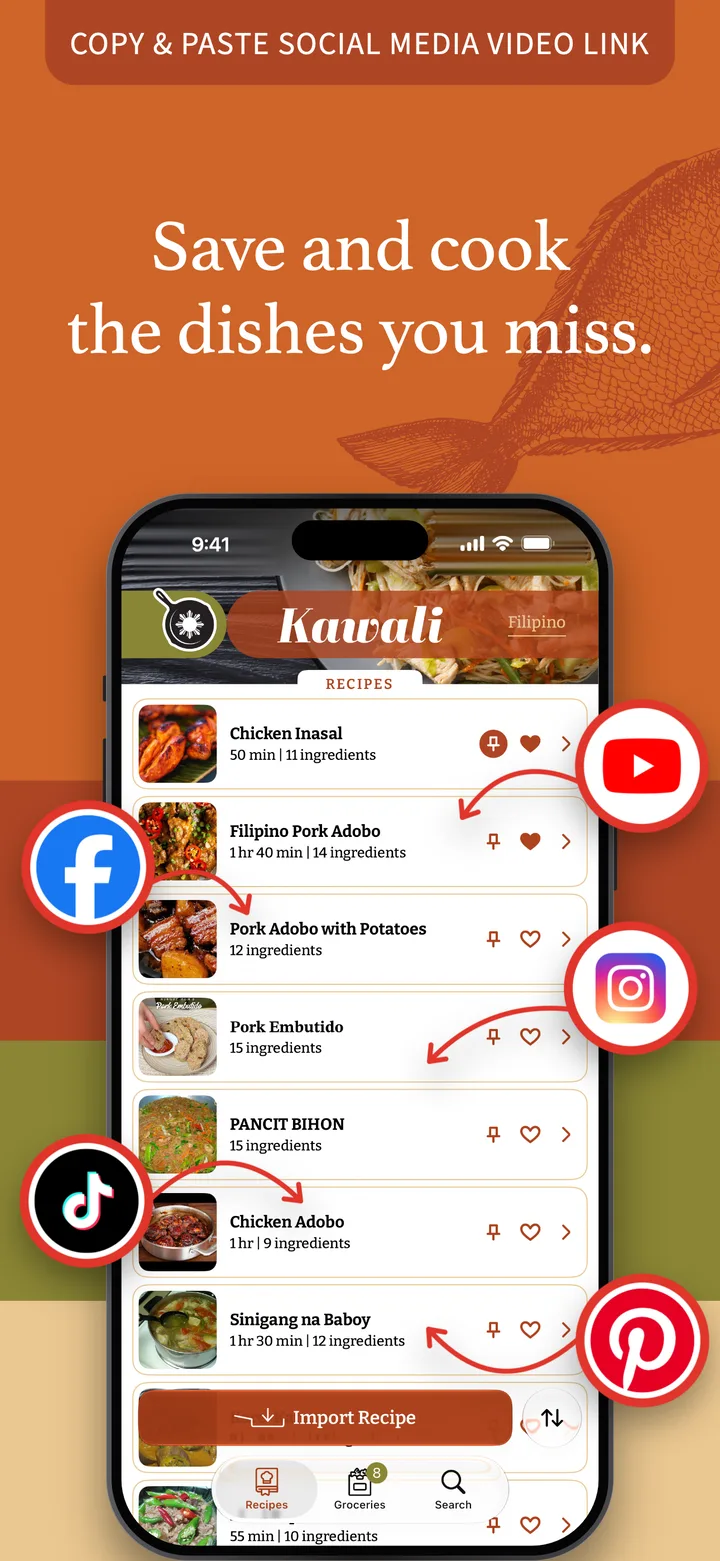
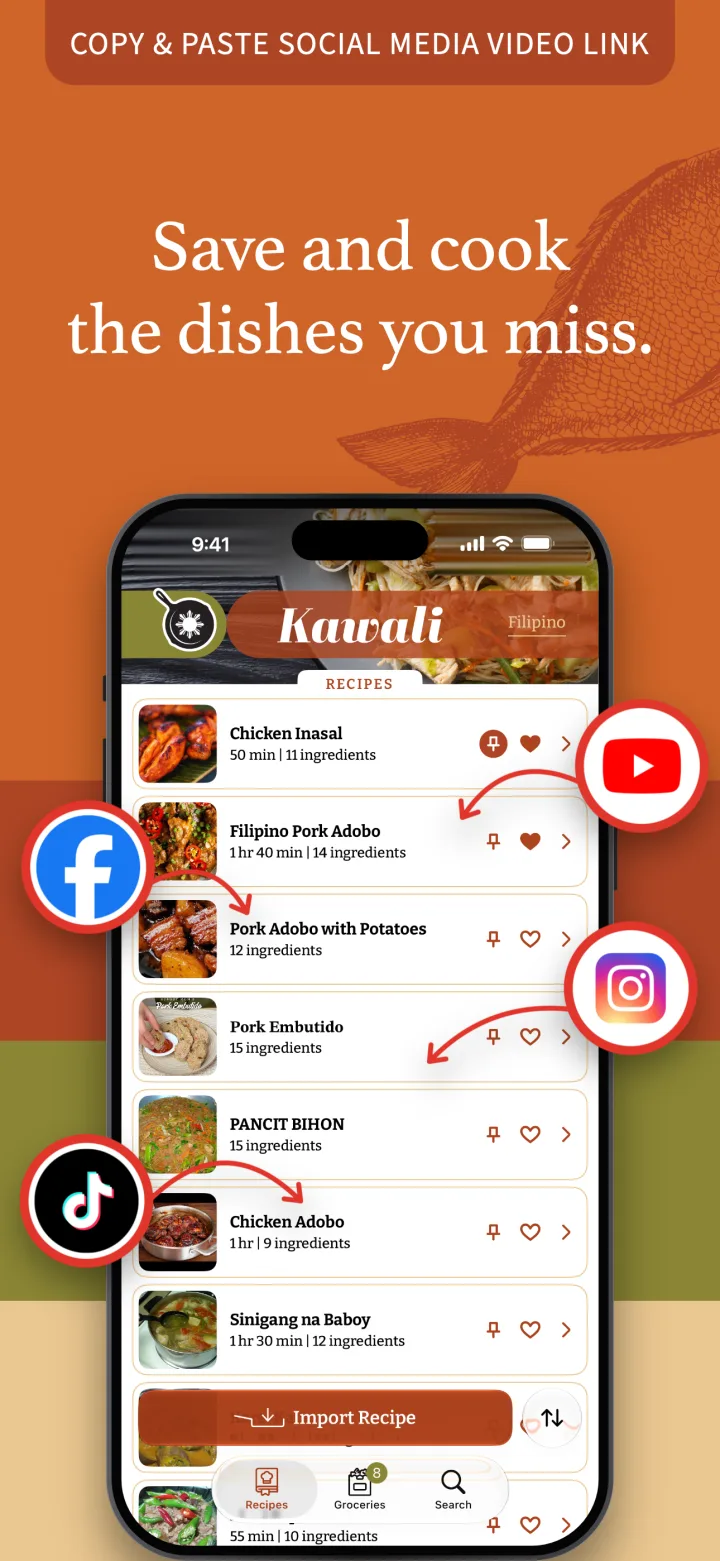
Take Pinterest off the site
Kawali no longer imports from Pinterest, so the site stops naming it:
the description and structured data, the hero, how-it-works, the Works
with marks, the support page's list of links (and "boards"), the privacy
policy's sources, and the trademark lines. Screenshot 2 is the new App
Store image without the Pinterest badge (720 wide, cwebp -q 82).

Also carries the privacy policy's Feast wording that was waiting: 5
reveals a month without Feast, "lots more" with it, rather than 100.

Claude-Session: https://claude.ai/code/session_01Wi9NbUzXHXaHLiCosfj7Ww

Changed region(s): [[0.6111, 0.7995, 1.0, 0.9225], [0.5806, 0.8302, 0.6111, 0.861]]

diff --git a/index.html b/index.html
@@ -4,7 +4,7 @@
   <meta charset="utf-8">
   <meta name="viewport" content="width=device-width, initial-scale=1, viewport-fit=cover">
   <title>Kawali – Save Filipino recipes from cooking videos</title>
-  <meta name="description" content="Kawali turns Filipino cooking videos from YouTube, TikTok, Instagram, Facebook and Pinterest into clean recipes you can edit, and a grocery list sorted by aisle. Patis stays patis, and an amount the video never gave is never guessed.">
+  <meta name="description" content="Kawali turns Filipino cooking videos from YouTube, TikTok, Instagram and Facebook into clean recipes you can edit, and a grocery list sorted by aisle. Patis stays patis, and an amount the video never gave is never guessed.">
   <link rel="canonical" href="https://kawali.app/">
   <meta name="theme-color" content="#ffffff">
 
@@ -37,7 +37,7 @@
     "name": "Kawali",
     "operatingSystem": "iOS 26.2 or later",
     "applicationCategory": "LifestyleApplication",
-    "description": "Kawali turns Filipino cooking videos from YouTube, TikTok, Instagram, Facebook and Pinterest into structured, editable recipes and a grocery checklist, keeping Filipino ingredient names and never inventing amounts the source did not give.",
+    "description": "Kawali turns Filipino cooking videos from YouTube, TikTok, Instagram and Facebook into structured, editable recipes and a grocery checklist, keeping Filipino ingredient names and never inventing amounts the source did not give.",
     "url": "https://kawali.app/",
     "image": "https://kawali.app/assets/img/icon-512.png",
     "author": { "@type": "Organization", "name": "CaLa Studios LLC", "email": "support@calastudios.app" }
@@ -79,7 +79,7 @@
         <div class="hero-copy">
           <span class="eyebrow">Made for everyone who misses Mom's Filipino home cooking</span>
           <h1>Save and cook the dishes <span class="accent">you miss.</span></h1>
-          <p class="hero-sub">Paste a cooking video from YouTube, TikTok, Instagram, Facebook or Pinterest. Kawali writes it down as a clean recipe you can check and edit, then puts the ingredients on your grocery list.</p>
+          <p class="hero-sub">Paste a cooking video from YouTube, TikTok, Instagram or Facebook. Kawali writes it down as a clean recipe you can check and edit, then puts the ingredients on your grocery list.</p>
           <div class="hero-cta">
             <span class="store-soon" data-store>
               <svg viewBox="0 0 24 24" fill="none" stroke="currentColor" stroke-width="2" stroke-linecap="round" stroke-linejoin="round" aria-hidden="true"><rect x="6" y="2" width="12" height="20" rx="3"/><path d="M10.5 5h3"/></svg>
@@ -119,7 +119,7 @@
               <span class="step-icon"><svg aria-hidden="true" viewBox="0 0 150.49 57.16"><path fill="none" stroke="currentColor" stroke-linecap="round" stroke-linejoin="round" stroke-width="7" d="M148.24,33.3v16.4c0,2.88-2.33,5.21-5.21,5.21H57.9c-2.88,0-5.21-2.33-5.21-5.21v-16.4L2.25,23.44"/><line fill="none" stroke="currentColor" stroke-linecap="round" stroke-linejoin="round" stroke-width="7" x1="100.91" y1="2.25" x2="100.91" y2="36.85"/><polygon fill="currentColor" points="82.5 21.94 85.8 18.87 100.9 35.12 116.01 18.87 119.31 21.94 100.9 41.73 82.5 21.94"/></svg></span>
             </div>
             <h3>Paste</h3>
-            <p>Copy the link to a Filipino cooking video and paste it into Kawali. Or skip the copying and share it to Kawali straight from YouTube, TikTok, Instagram, Facebook, Pinterest or Safari.</p>
+            <p>Copy the link to a Filipino cooking video and paste it into Kawali. Or skip the copying and share it to Kawali straight from YouTube, TikTok, Instagram, Facebook or Safari.</p>
           </li>
           <li class="step reveal">
             <div class="step-head">
@@ -154,9 +154,8 @@
             <li><svg style="color:#000000" fill="currentColor" aria-hidden="true" viewBox="0 0 24 24"><path d="M12.525.02c1.31-.02 2.61-.01 3.91-.02.08 1.53.63 3.09 1.75 4.17 1.12 1.11 2.7 1.62 4.24 1.79v4.03c-1.44-.05-2.89-.35-4.2-.97-.57-.26-1.1-.59-1.62-.93-.01 2.92.01 5.84-.02 8.75-.08 1.4-.54 2.79-1.35 3.94-1.31 1.92-3.58 3.17-5.91 3.21-1.43.08-2.86-.31-4.08-1.03-2.02-1.19-3.44-3.37-3.65-5.71-.02-.5-.03-1-.01-1.49.18-1.9 1.12-3.72 2.58-4.96 1.66-1.44 3.98-2.13 6.15-1.72.02 1.48-.04 2.96-.04 4.44-.99-.32-2.15-.23-3.02.37-.63.41-1.11 1.04-1.36 1.75-.21.51-.15 1.07-.14 1.61.24 1.64 1.82 3.02 3.5 2.87 1.12-.01 2.19-.66 2.77-1.61.19-.33.4-.67.41-1.06.1-1.79.06-3.57.07-5.36.01-4.03-.01-8.05.02-12.07z"/></svg>TikTok</li>
             <li><svg aria-hidden="true" viewBox="0 0 24 24"><defs><linearGradient id="ig-grad" x1="0" y1="1" x2="1" y2="0"><stop offset="0" stop-color="#feda75"/><stop offset=".25" stop-color="#fa7e1e"/><stop offset=".5" stop-color="#d62976"/><stop offset=".75" stop-color="#962fbf"/><stop offset="1" stop-color="#4f5bd5"/></linearGradient></defs><path fill="url(#ig-grad)" d="M7.0301.084c-1.2768.0602-2.1487.264-2.911.5634-.7888.3075-1.4575.72-2.1228 1.3877-.6652.6677-1.075 1.3368-1.3802 2.127-.2954.7638-.4956 1.6365-.552 2.914-.0564 1.2775-.0689 1.6882-.0626 4.947.0062 3.2586.0206 3.6671.0825 4.9473.061 1.2765.264 2.1482.5635 2.9107.308.7889.72 1.4573 1.388 2.1228.6679.6655 1.3365 1.0743 2.1285 1.38.7632.295 1.6361.4961 2.9134.552 1.2773.056 1.6884.069 4.9462.0627 3.2578-.0062 3.668-.0207 4.9478-.0814 1.28-.0607 2.147-.2652 2.9098-.5633.7889-.3086 1.4578-.72 2.1228-1.3881.665-.6682 1.0745-1.3378 1.3795-2.1284.2957-.7632.4966-1.636.552-2.9124.056-1.2809.0692-1.6898.063-4.948-.0063-3.2583-.021-3.6668-.0817-4.9465-.0607-1.2797-.264-2.1487-.5633-2.9117-.3084-.7889-.72-1.4568-1.3876-2.1228C21.2982 1.33 20.628.9208 19.8378.6165 19.074.321 18.2017.1197 16.9244.0645 15.6471.0093 15.236-.005 11.977.0014 8.718.0076 8.31.0215 7.0301.0839m.1402 21.6932c-1.17-.0509-1.8053-.2453-2.2287-.408-.5606-.216-.96-.4771-1.3819-.895-.422-.4178-.6811-.8186-.9-1.378-.1644-.4234-.3624-1.058-.4171-2.228-.0595-1.2645-.072-1.6442-.079-4.848-.007-3.2037.0053-3.583.0607-4.848.05-1.169.2456-1.805.408-2.2282.216-.5613.4762-.96.895-1.3816.4188-.4217.8184-.6814 1.3783-.9003.423-.1651 1.0575-.3614 2.227-.4171 1.2655-.06 1.6447-.072 4.848-.079 3.2033-.007 3.5835.005 4.8495.0608 1.169.0508 1.8053.2445 2.228.408.5608.216.96.4754 1.3816.895.4217.4194.6816.8176.9005 1.3787.1653.4217.3617 1.056.4169 2.2263.0602 1.2655.0739 1.645.0796 4.848.0058 3.203-.0055 3.5834-.061 4.848-.051 1.17-.245 1.8055-.408 2.2294-.216.5604-.4763.96-.8954 1.3814-.419.4215-.8181.6811-1.3783.9-.4224.1649-1.0577.3617-2.2262.4174-1.2656.0595-1.6448.072-4.8493.079-3.2045.007-3.5825-.006-4.848-.0608M16.953 5.5864A1.44 1.44 0 1 0 18.39 4.144a1.44 1.44 0 0 0-1.437 1.4424M5.8385 12.012c.0067 3.4032 2.7706 6.1557 6.173 6.1493 3.4026-.0065 6.157-2.7701 6.1506-6.1733-.0065-3.4032-2.771-6.1565-6.174-6.1498-3.403.0067-6.156 2.771-6.1496 6.1738M8 12.0077a4 4 0 1 1 4.008 3.9921A3.9996 3.9996 0 0 1 8 12.0077"/></svg>Instagram</li>
             <li><svg style="color:#0866ff" fill="currentColor" aria-hidden="true" viewBox="0 0 24 24"><path d="M9.101 23.691v-7.98H6.627v-3.667h2.474v-1.58c0-4.085 1.848-5.978 5.858-5.978.401 0 .955.042 1.468.103a8.68 8.68 0 0 1 1.141.195v3.325a8.623 8.623 0 0 0-.653-.036 26.805 26.805 0 0 0-.733-.009c-.707 0-1.259.096-1.675.309a1.686 1.686 0 0 0-.679.622c-.258.42-.374.995-.374 1.752v1.297h3.919l-.386 2.103-.287 1.564h-3.246v8.245C19.396 23.238 24 18.179 24 12.044c0-6.627-5.373-12-12-12s-12 5.373-12 12c0 5.628 3.874 10.35 9.101 11.647Z"/></svg>Facebook</li>
-            <li><svg style="color:#e60023" fill="currentColor" aria-hidden="true" viewBox="0 0 24 24"><path d="M12.017 0C5.396 0 .029 5.367.029 11.987c0 5.079 3.158 9.417 7.618 11.162-.105-.949-.199-2.403.041-3.439.219-.937 1.406-5.957 1.406-5.957s-.359-.72-.359-1.781c0-1.663.967-2.911 2.168-2.911 1.024 0 1.518.769 1.518 1.688 0 1.029-.653 2.567-.992 3.992-.285 1.193.6 2.165 1.775 2.165 2.128 0 3.768-2.245 3.768-5.487 0-2.861-2.063-4.869-5.008-4.869-3.41 0-5.409 2.562-5.409 5.199 0 1.033.394 2.143.889 2.741.099.12.112.225.085.345-.09.375-.293 1.199-.334 1.363-.053.225-.172.271-.401.165-1.495-.69-2.433-2.878-2.433-4.646 0-3.776 2.748-7.252 7.92-7.252 4.158 0 7.392 2.967 7.392 6.923 0 4.135-2.607 7.462-6.233 7.462-1.214 0-2.354-.629-2.758-1.379l-.749 2.848c-.269 1.045-1.004 2.352-1.498 3.146 1.123.345 2.306.535 3.55.535 6.607 0 11.985-5.365 11.985-11.987C23.97 5.39 18.592.026 11.985.026L12.017 0z"/></svg>Pinterest</li>
           </ul>
-          <p class="works-more">Videos, Shorts, Reels, posts, pins and share links. No link? Import a <strong>photo</strong> of a cookbook page or recipe card, <strong>paste</strong> a recipe you copied, or <strong>make your own</strong> from scratch.</p>
+          <p class="works-more">Videos, Shorts, Reels, posts and share links. No link? Import a <strong>photo</strong> of a cookbook page or recipe card, <strong>paste</strong> a recipe you copied, or <strong>make your own</strong> from scratch.</p>
         </div>
       </div>
     </section>
@@ -372,7 +371,7 @@
       <div class="container">
         <ul class="shots" aria-label="App Store screenshots">
           <li class="shot"><img src="/assets/img/shot-01-made-for-everyone-who-misses-moms-cooking.webp" alt="Kawali, made for everyone who misses Mom's Filipino home cooking" width="720" height="1561" loading="lazy"></li>
-          <li class="shot"><img src="/assets/img/shot-02-save-and-cook-the-dishes-you-miss.webp" alt="Save and cook the dishes you miss: the recipe list, with links from YouTube, TikTok, Instagram, Facebook and Pinterest" width="720" height="1561" loading="lazy"></li>
+          <li class="shot"><img src="/assets/img/shot-02-save-and-cook-the-dishes-you-miss.webp" alt="Save and cook the dishes you miss: the recipe list, with links from YouTube, TikTok, Instagram and Facebook" width="720" height="1561" loading="lazy"></li>
           <li class="shot"><img src="/assets/img/shot-03-especially-the-pork-adobo.webp" alt="Especially, the Pork Adobo: a recipe with its ingredients, prep time, servings, cook time and source" width="720" height="1561" loading="lazy"></li>
           <li class="shot"><img src="/assets/img/shot-04-every-ingredient-written-down.webp" alt="Every ingredient, written down: the ingredient list with amounts and an Add to Groceries button" width="720" height="1561" loading="lazy"></li>
           <li class="shot"><img src="/assets/img/shot-05-step-by-step-like-cooking-beside-mom.webp" alt="Step by step, like cooking beside Mom: numbered cooking instructions" width="720" height="1561" loading="lazy"></li>
@@ -461,7 +460,7 @@
       </div>
       <div class="footer-meta">
         <span>Copyright © <span data-year>2026</span> CaLa Studios LLC. All rights reserved.</span>
-        <span>Apple, iPhone and App Store are trademarks of Apple Inc. YouTube, TikTok, Instagram, Facebook and Pinterest are trademarks of their owners; Kawali is not affiliated with them.</span>
+        <span>Apple, iPhone and App Store are trademarks of Apple Inc. YouTube, TikTok, Instagram and Facebook are trademarks of their owners; Kawali is not affiliated with them.</span>
       </div>
     </div>
   </footer>

diff --git a/privacy.html b/privacy.html
@@ -86,7 +86,7 @@
         <p><strong>Backups:</strong> if you use iCloud Backup or back up your device to a computer, Kawali's data may be included like any other app's. Backups are controlled by you and covered by Apple's privacy policy.</p>
 
         <h2 id="links">2. Importing from a link</h2>
-        <p>When you paste or share a link from YouTube, TikTok, Instagram, Facebook or Pinterest and tap Import Recipe, the app sends that link to Kawali's server. Nothing else about you or your device is sent with it.</p>
+        <p>When you paste or share a link from YouTube, TikTok, Instagram or Facebook and tap Import Recipe, the app sends that link to Kawali's server. Nothing else about you or your device is sent with it.</p>
         <p>The server then reads what the platform makes publicly available about that one post: its title, creator, description or caption, picture and, where available, captions, along with any recipe page the post links to. If that text doesn't already hold a written-out recipe, the server sends it to OpenAI (see <a href="#providers">section 8</a>) to turn it into ingredients and steps. The server answers with the recipe, which you review before saving on your device.</p>
         <p>So the next person who imports the same post doesn't wait, the server keeps the finished recipe for that post for up to 30 days. It is stored by the post, not by who asked, and it contains only what was read from the public post, never your edits.</p>
         <p>When you share a link to Kawali, the share sheet also asks the server for the post's title, creator and picture, so it can show you what you're about to import. That lookup is not stored.</p>
@@ -106,7 +106,7 @@
         <p>Notifications are optional. The first time you save a recipe Kawali is still watching, iOS asks whether Kawali may send you notifications. If you allow them, the app sends the server your device's push token, the recipe's title and an identifier the app created for that recipe, so it can tell you when the steps are ready. The server keeps these only until that video is finished (at most three days) and then deletes them. Notifications are delivered by Apple's Push Notification service. You can turn them off at any time in Settings › Notifications › Kawali.</p>
 
         <h2 id="feast">6. Kawali Feast, the subscription</h2>
-        <p>Kawali is free to use. Kawali Feast is an optional subscription that raises the number of recipes Kawali reads for you each month (we call each one a reveal) from 5 to 100. Recipes you write yourself are always free, and how many reveals you have used is counted on your device (<a href="#device">section 1</a>), never sent anywhere.</p>
+        <p>Kawali is free to use. Kawali Feast is an optional subscription that lifts the monthly limit on the recipes Kawali reads for you (we call each one a reveal): 5 a month without it, lots more with it. Recipes you write yourself are always free, and how many reveals you have used is counted on your device (<a href="#device">section 1</a>), never sent anywhere.</p>
         <p>Feast is bought through the App Store, so <strong>Apple handles the payment</strong> under your Apple Account. Kawali never sees your name, your Apple Account or your payment details, and neither does anyone we work with.</p>
         <p>To know whether Feast is active on your device, Kawali uses <strong>RevenueCat</strong>, a service that keeps track of app subscriptions. Each time the app opens, whether or not you ever subscribe, it asks RevenueCat about this device, and after a purchase it passes RevenueCat the App Store's record of it. What RevenueCat receives:</p>
         <ul>
@@ -131,7 +131,7 @@
               <tr><td>OpenAI</td><td>Turns recipe text into ingredients and steps; transcribes narration; describes video frames</td><td>Public text from posts, text you import from a photo or clipboard, and audio and frames from public videos. OpenAI's API terms don't allow it to use this data to train its models</td></tr>
               <tr><td>RevenueCat</td><td>Keeps track of Kawali Feast subscriptions and shows the Feast page</td><td>The anonymous device identifiers, the App Store's record of your Kawali purchases, the device details and the Feast page use listed in section 6</td></tr>
               <tr><td>Apple</td><td>The App Store and payment for Kawali Feast; delivers notifications</td><td>Your purchase, under your Apple Account and Apple's privacy policy; your push token and the notification, if you allow notifications</td></tr>
-              <tr><td>YouTube, TikTok, Instagram, Facebook, Pinterest and linked recipe sites</td><td>The sources Kawali reads</td><td>Requests from our server for the public post you imported, and picture requests from your device (section 7)</td></tr>
+              <tr><td>YouTube, TikTok, Instagram, Facebook and linked recipe sites</td><td>The sources Kawali reads</td><td>Requests from our server for the public post you imported, and picture requests from your device (section 7)</td></tr>
             </tbody>
           </table>
         </div>
@@ -193,7 +193,7 @@
       </div>
       <div class="footer-meta">
         <span>Copyright © <span data-year>2026</span> CaLa Studios LLC. All rights reserved.</span>
-        <span>Apple, iPhone and App Store are trademarks of Apple Inc. YouTube, TikTok, Instagram, Facebook and Pinterest are trademarks of their owners; Kawali is not affiliated with them.</span>
+        <span>Apple, iPhone and App Store are trademarks of Apple Inc. YouTube, TikTok, Instagram and Facebook are trademarks of their owners; Kawali is not affiliated with them.</span>
       </div>
     </div>
   </footer>

diff --git a/support.html b/support.html
@@ -60,9 +60,8 @@
                     <li><strong>TikTok:</strong> videos, photo posts and share links (vm.tiktok.com and the like).</li>
                     <li><strong>Instagram:</strong> posts and Reels.</li>
                     <li><strong>Facebook:</strong> videos, Reels, posts and fb.watch or share links.</li>
-                    <li><strong>Pinterest:</strong> pins and pin.it links. For a recipe pin, Kawali reads the recipe site the pin links to.</li>
                   </ul>
-                  <p>Profiles, channels, feeds, hashtags and boards aren't links to one recipe, so Kawali can't import them. Open the video itself and copy or share its link.</p>
+                  <p>Profiles, channels, feeds and hashtags aren't links to one recipe, so Kawali can't import them. Open the video itself and copy or share its link.</p>
                 </div>
               </details>
               <details id="share">
@@ -242,7 +241,7 @@
       </div>
       <div class="footer-meta">
         <span>Copyright © <span data-year>2026</span> CaLa Studios LLC. All rights reserved.</span>
-        <span>Apple, iPhone and App Store are trademarks of Apple Inc. YouTube, TikTok, Instagram, Facebook and Pinterest are trademarks of their owners; Kawali is not affiliated with them.</span>
+        <span>Apple, iPhone and App Store are trademarks of Apple Inc. YouTube, TikTok, Instagram and Facebook are trademarks of their owners; Kawali is not affiliated with them.</span>
       </div>
     </div>
   </footer>

diff --git a/README.md b/README.md
@@ -4,7 +4,7 @@ Marketing and support site for Kawali, the iPhone app that turns Filipino cookin
 
 ## About Kawali
 
-Kawali is a recipe app built for Filipino food. Paste a cooking video from YouTube, TikTok, Instagram, Facebook or Pinterest, or share it to Kawali from those apps, and Kawali reads the recipe from the description, the linked recipe page and the narration (English, Tagalog or Taglish). The cook reviews and edits it, saves it, and adds the ingredients to a grocery checklist.
+Kawali is a recipe app built for Filipino food. Paste a cooking video from YouTube, TikTok, Instagram or Facebook, or share it to Kawali from those apps, and Kawali reads the recipe from the description, the linked recipe page and the narration (English, Tagalog or Taglish). The cook reviews and edits it, saves it, and adds the ingredients to a grocery checklist.
 
 - **Filipino terminology kept.** Ingredient names stay as the source says them (patis, toyo, gata, siling labuyo), with the English beside them only as an explanation. The knowledge base behind this has 160+ ingredients, 30+ cooking terms, 23 dish families and 9 regions.
 - **Nothing invented.** An amount, time or serving count the source doesn't state is left blank and flagged, never guessed. A serving count may be estimated from the main ingredient's weight, shown as "~5" until the cook confirms it.
